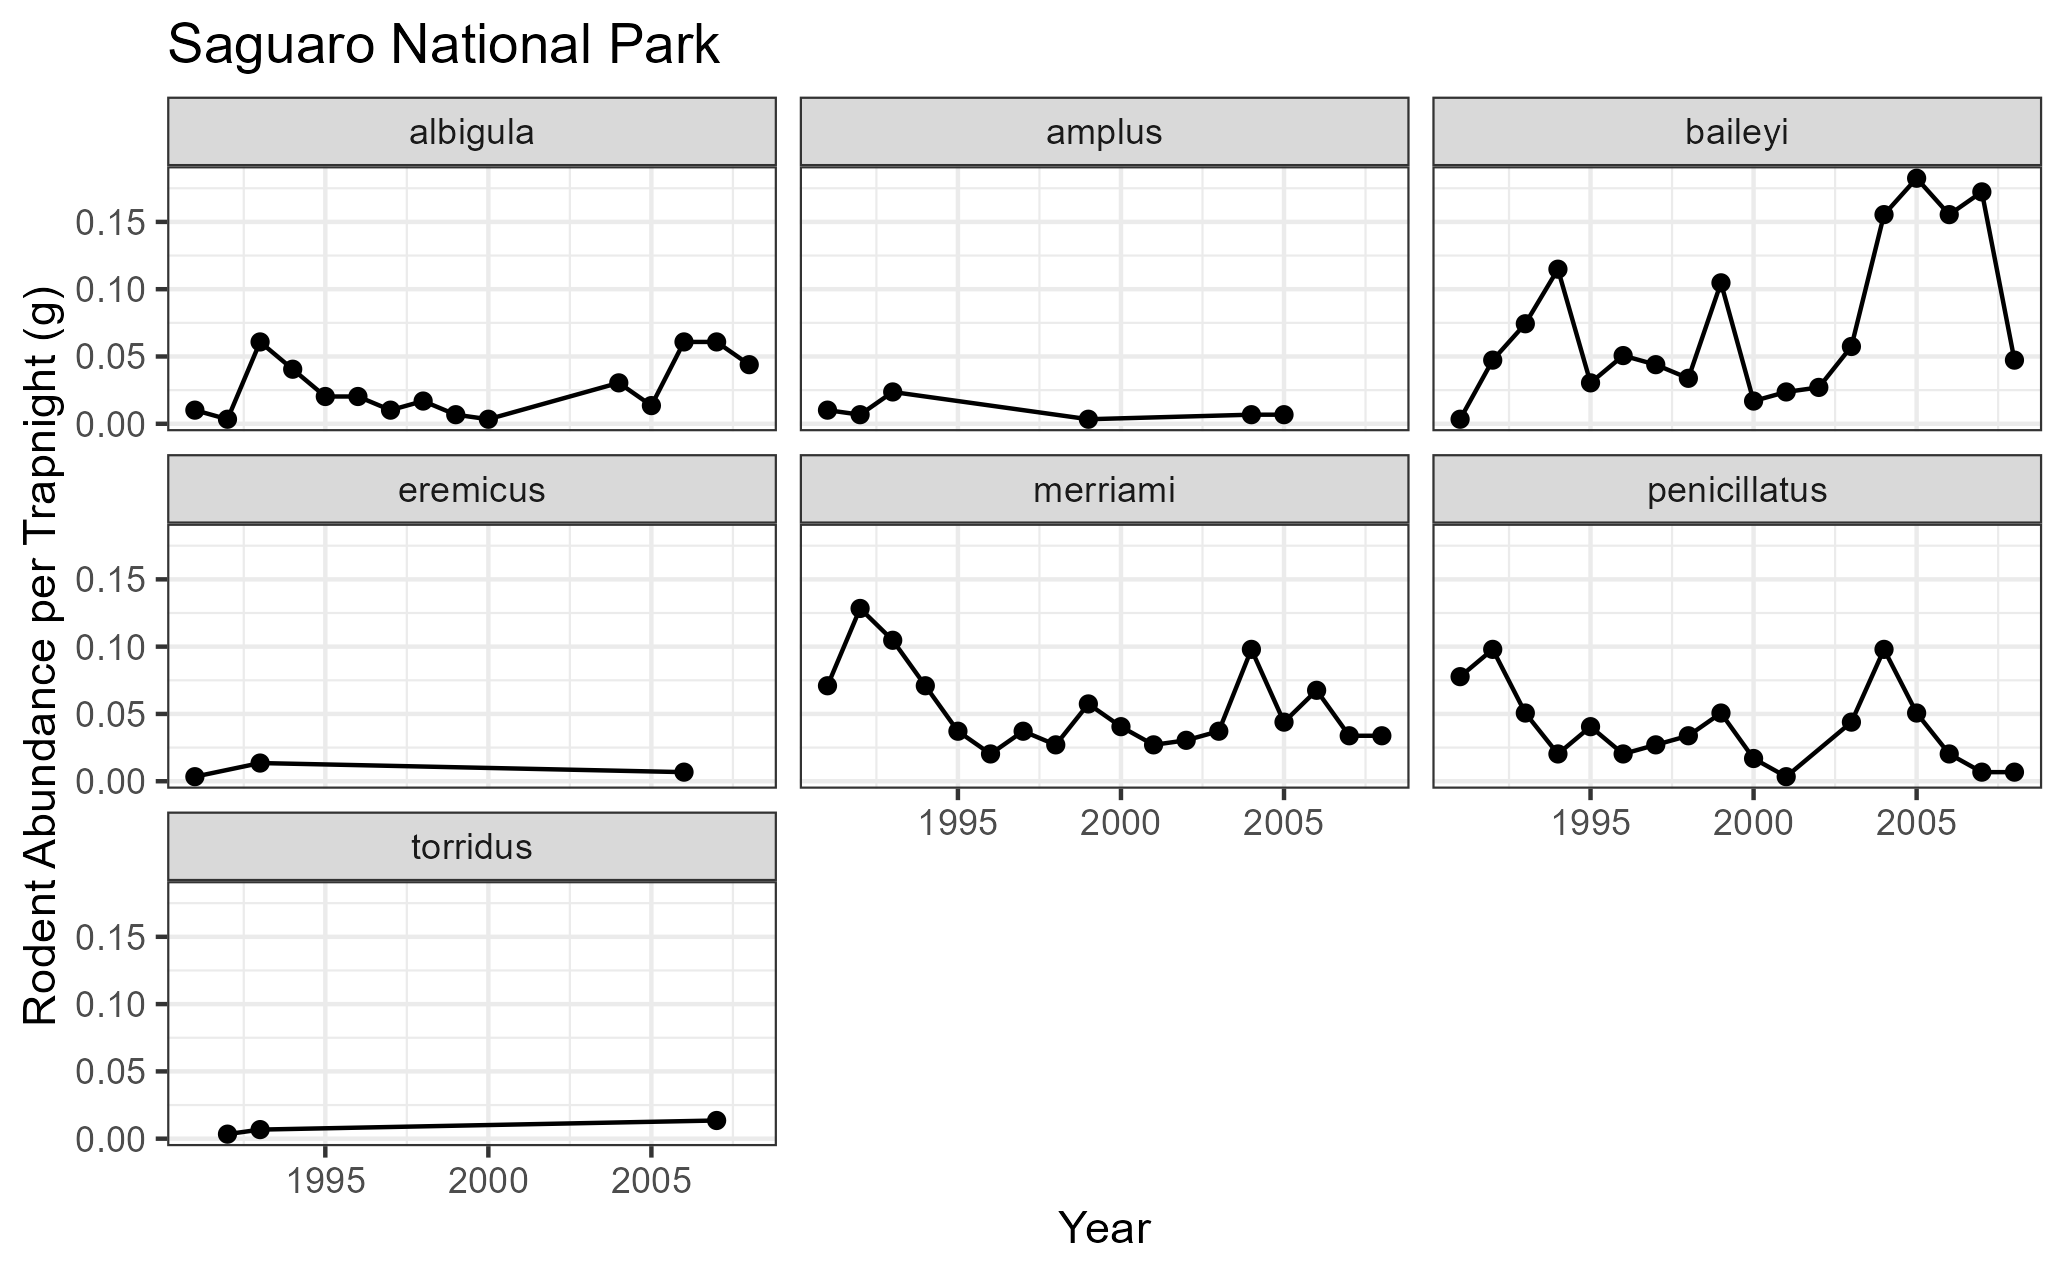
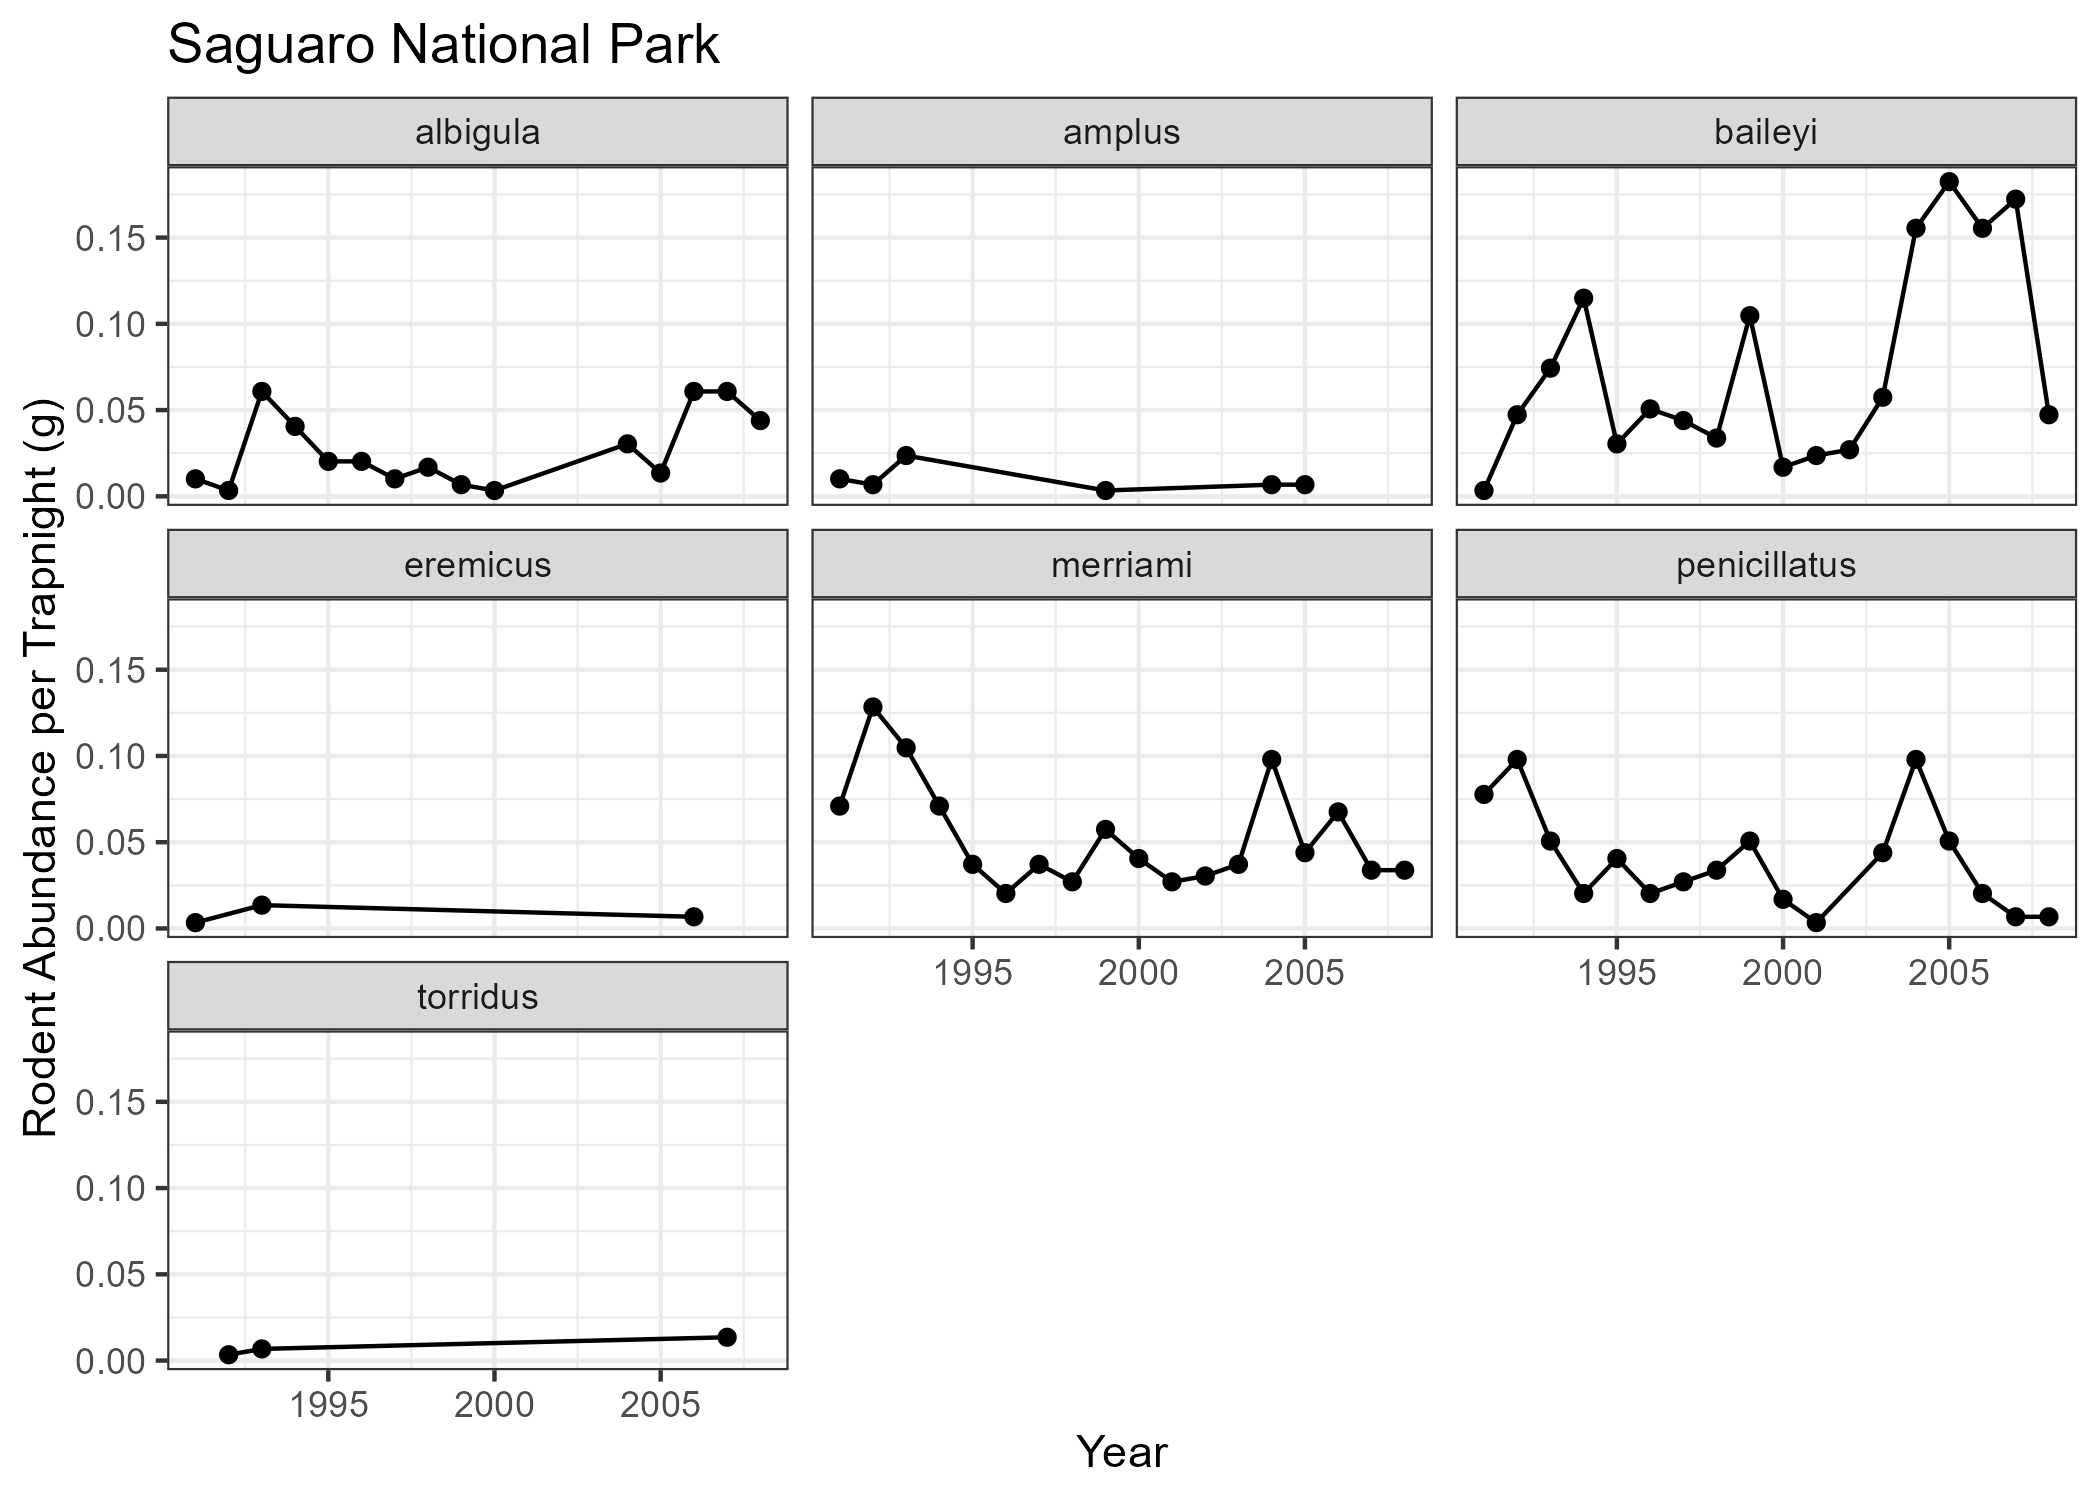
knit saguaro_analysis as markdown file

diff --git a/code/saguaro_analysis.md b/code/saguaro_analysis.md
@@ -1,0 +1,266 @@
+saguaro_analysis
+================
+Hannah Dempsey
+
+# Saguaro National Park Analysis
+
+Set up:
+
+``` r
+library(tidyverse)
+```
+
+    ## ── Attaching core tidyverse packages ──────────────────────── tidyverse 2.0.0 ──
+    ## ✔ dplyr     1.1.4     ✔ readr     2.1.5
+    ## ✔ forcats   1.0.0     ✔ stringr   1.5.1
+    ## ✔ ggplot2   3.5.1     ✔ tibble    3.2.1
+    ## ✔ lubridate 1.9.4     ✔ tidyr     1.3.1
+    ## ✔ purrr     1.0.4     
+    ## ── Conflicts ────────────────────────────────────────── tidyverse_conflicts() ──
+    ## ✖ dplyr::filter() masks stats::filter()
+    ## ✖ dplyr::lag()    masks stats::lag()
+    ## ℹ Use the conflicted package (<http://conflicted.r-lib.org/>) to force all conflicts to become errors
+
+``` r
+saguaro_clean <- read_csv("../data_clean/saguaro_clean.csv")
+```
+
+    ## Rows: 1212 Columns: 16
+    ## ── Column specification ────────────────────────────────────────────────────────
+    ## Delimiter: ","
+    ## chr  (8): genus, species, recapture, sex, age, reprod_cond, web_trap_number,...
+    ## dbl  (7): year, month, day, mass_g, rhf, body, tail
+    ## date (1): trap_check_date
+    ## 
+    ## ℹ Use `spec()` to retrieve the full column specification for this data.
+    ## ℹ Specify the column types or set `show_col_types = FALSE` to quiet this message.
+
+### Abundance Data
+
+Summarize the data by year:
+
+``` r
+survey_nights <- saguaro_clean %>% 
+  group_by(year) %>% 
+  distinct(trap_check_date) %>% 
+  summarize(nights = n())
+survey_nights
+```
+
+    ## # A tibble: 18 × 2
+    ##     year nights
+    ##    <dbl>  <int>
+    ##  1  1991      2
+    ##  2  1992      2
+    ##  3  1993      2
+    ##  4  1994      2
+    ##  5  1995      2
+    ##  6  1996      2
+    ##  7  1997      2
+    ##  8  1998      2
+    ##  9  1999      2
+    ## 10  2000      2
+    ## 11  2001      2
+    ## 12  2002      2
+    ## 13  2003      2
+    ## 14  2004      2
+    ## 15  2005      2
+    ## 16  2006      1
+    ## 17  2007      2
+    ## 18  2008      2
+
+Calculate the annual abundance for each species per trapnight:
+
+``` r
+#148 traps used per night
+rodents_per_trapnight <- saguaro_clean %>% 
+  filter(recapture == "N") %>% 
+  group_by(year, species) %>% 
+  summarize(abundance = n()) %>% 
+  left_join(survey_nights) %>% 
+  mutate(trap_nights = nights * 148,
+         abund_per_trapnight = abundance / trap_nights)
+```
+
+    ## `summarise()` has grouped output by 'year'. You can override using the
+    ## `.groups` argument.
+    ## Joining with `by = join_by(year)`
+
+``` r
+rodents_per_trapnight
+```
+
+    ## # A tibble: 80 × 6
+    ## # Groups:   year [18]
+    ##     year species      abundance nights trap_nights abund_per_trapnight
+    ##    <dbl> <chr>            <int>  <int>       <dbl>               <dbl>
+    ##  1  1991 albigula             3      2         296             0.0101 
+    ##  2  1991 amplus               3      2         296             0.0101 
+    ##  3  1991 baileyi              1      2         296             0.00338
+    ##  4  1991 eremicus             1      2         296             0.00338
+    ##  5  1991 merriami            21      2         296             0.0709 
+    ##  6  1991 penicillatus        23      2         296             0.0777 
+    ##  7  1992 albigula             1      2         296             0.00338
+    ##  8  1992 amplus               2      2         296             0.00676
+    ##  9  1992 baileyi             14      2         296             0.0473 
+    ## 10  1992 merriami            38      2         296             0.128  
+    ## # ℹ 70 more rows
+
+``` r
+#save dataframe for comparison
+write_csv(rodents_per_trapnight, "../data_clean/saguaro_abund_trapnights.csv")
+```
+
+Plotting abundance per trapnight:
+
+``` r
+saguaro_abundance <- ggplot(rodents_per_trapnight, aes(x = year, y = abund_per_trapnight)) +
+  geom_point() +
+  geom_line() +
+  facet_wrap(~ species) +
+  labs(y = "Rodent Abundance per Trapnight (g)", x = "Year", title = "Saguaro National Park") +
+  theme_bw()
+saguaro_abundance
+```
+
+![](saguaro_analysis_files/figure-gfm/unnamed-chunk-4-1.png)<!-- -->
+
+``` r
+ggsave("../figures/saguaro_abundance.png")
+```
+
+    ## Saving 7 x 5 in image
+
+### Biomass Data
+
+Calculating average mass for each species:
+
+``` r
+rodent_mass <- saguaro_clean %>% 
+  group_by(species) %>% 
+  summarize(avg_mass_g = mean(mass_g, na.rm = TRUE))
+rodent_mass
+```
+
+    ## # A tibble: 7 × 2
+    ##   species      avg_mass_g
+    ##   <chr>             <dbl>
+    ## 1 albigula          157. 
+    ## 2 amplus             12.3
+    ## 3 baileyi            29.3
+    ## 4 eremicus           17.1
+    ## 5 merriami           39.1
+    ## 6 penicillatus       18.9
+    ## 7 torridus           18.1
+
+Calculate annual biomass of each species:
+
+``` r
+biomass_annual <- rodents_per_trapnight %>% 
+  inner_join(rodent_mass, join_by(species)) %>% 
+  group_by(year, species) %>% 
+  summarize(biomass_g = abund_per_trapnight * avg_mass_g)
+```
+
+    ## `summarise()` has grouped output by 'year'. You can override using the
+    ## `.groups` argument.
+
+``` r
+biomass_annual
+```
+
+    ## # A tibble: 80 × 3
+    ## # Groups:   year [18]
+    ##     year species      biomass_g
+    ##    <dbl> <chr>            <dbl>
+    ##  1  1991 albigula        1.59  
+    ##  2  1991 amplus          0.125 
+    ##  3  1991 baileyi         0.0991
+    ##  4  1991 eremicus        0.0577
+    ##  5  1991 merriami        2.78  
+    ##  6  1991 penicillatus    1.47  
+    ##  7  1992 albigula        0.531 
+    ##  8  1992 amplus          0.0832
+    ##  9  1992 baileyi         1.39  
+    ## 10  1992 merriami        5.02  
+    ## # ℹ 70 more rows
+
+``` r
+#save dataframe for comparison
+write_csv(biomass_annual, "../data_clean/saguaro_biomass.csv")
+```
+
+Plotting annual biomass of each species:
+
+``` r
+saguaro_biomass <- ggplot(biomass_annual, aes(x = year, y = biomass_g)) +
+  geom_point() +
+  geom_line() +
+  facet_wrap(~species) +
+  labs(y = "Biomass (g)", x = "Year", title = "Saguaro National Park") +
+  theme_bw()
+saguaro_biomass
+```
+
+![](saguaro_analysis_files/figure-gfm/unnamed-chunk-7-1.png)<!-- -->
+
+``` r
+ggsave("../figures/saguaro_biomass.png")
+```
+
+    ## Saving 7 x 5 in image
+
+Calculating annual community biomass:
+
+``` r
+total_biomass_annual <- biomass_annual %>% 
+  group_by(year) %>% 
+  summarize(biomass_g = sum(biomass_g))
+total_biomass_annual
+```
+
+    ## # A tibble: 18 × 2
+    ##     year biomass_g
+    ##    <dbl>     <dbl>
+    ##  1  1991      6.12
+    ##  2  1992      8.94
+    ##  3  1993     17.4 
+    ##  4  1994     12.9 
+    ##  5  1995      6.30
+    ##  6  1996      5.85
+    ##  7  1997      4.85
+    ##  8  1998      5.34
+    ##  9  1999      7.38
+    ## 10  2000      2.93
+    ## 11  2001      1.82
+    ## 12  2002      1.98
+    ## 13  2003      3.97
+    ## 14  2004     15.1 
+    ## 15  2005     10.2 
+    ## 16  2006     17.3 
+    ## 17  2007     16.3 
+    ## 18  2008      9.74
+
+``` r
+#save dataframe for comparison
+write_csv(total_biomass_annual, "../data_clean/saguaro_total_biomass.csv")
+```
+
+Plotting annual community biomass:
+
+``` r
+saguaro_total_biomass <- ggplot(total_biomass_annual, aes(x = year, y = biomass_g)) +
+  geom_point() +
+  geom_line() +
+  labs(y = "Total Biomass (g)", x = "Year", title = "Saguaro National Park") +
+  theme_bw()
+saguaro_total_biomass
+```
+
+![](saguaro_analysis_files/figure-gfm/unnamed-chunk-9-1.png)<!-- -->
+
+``` r
+ggsave("../figures/saguaro_total_biomass.png")
+```
+
+    ## Saving 7 x 5 in image
